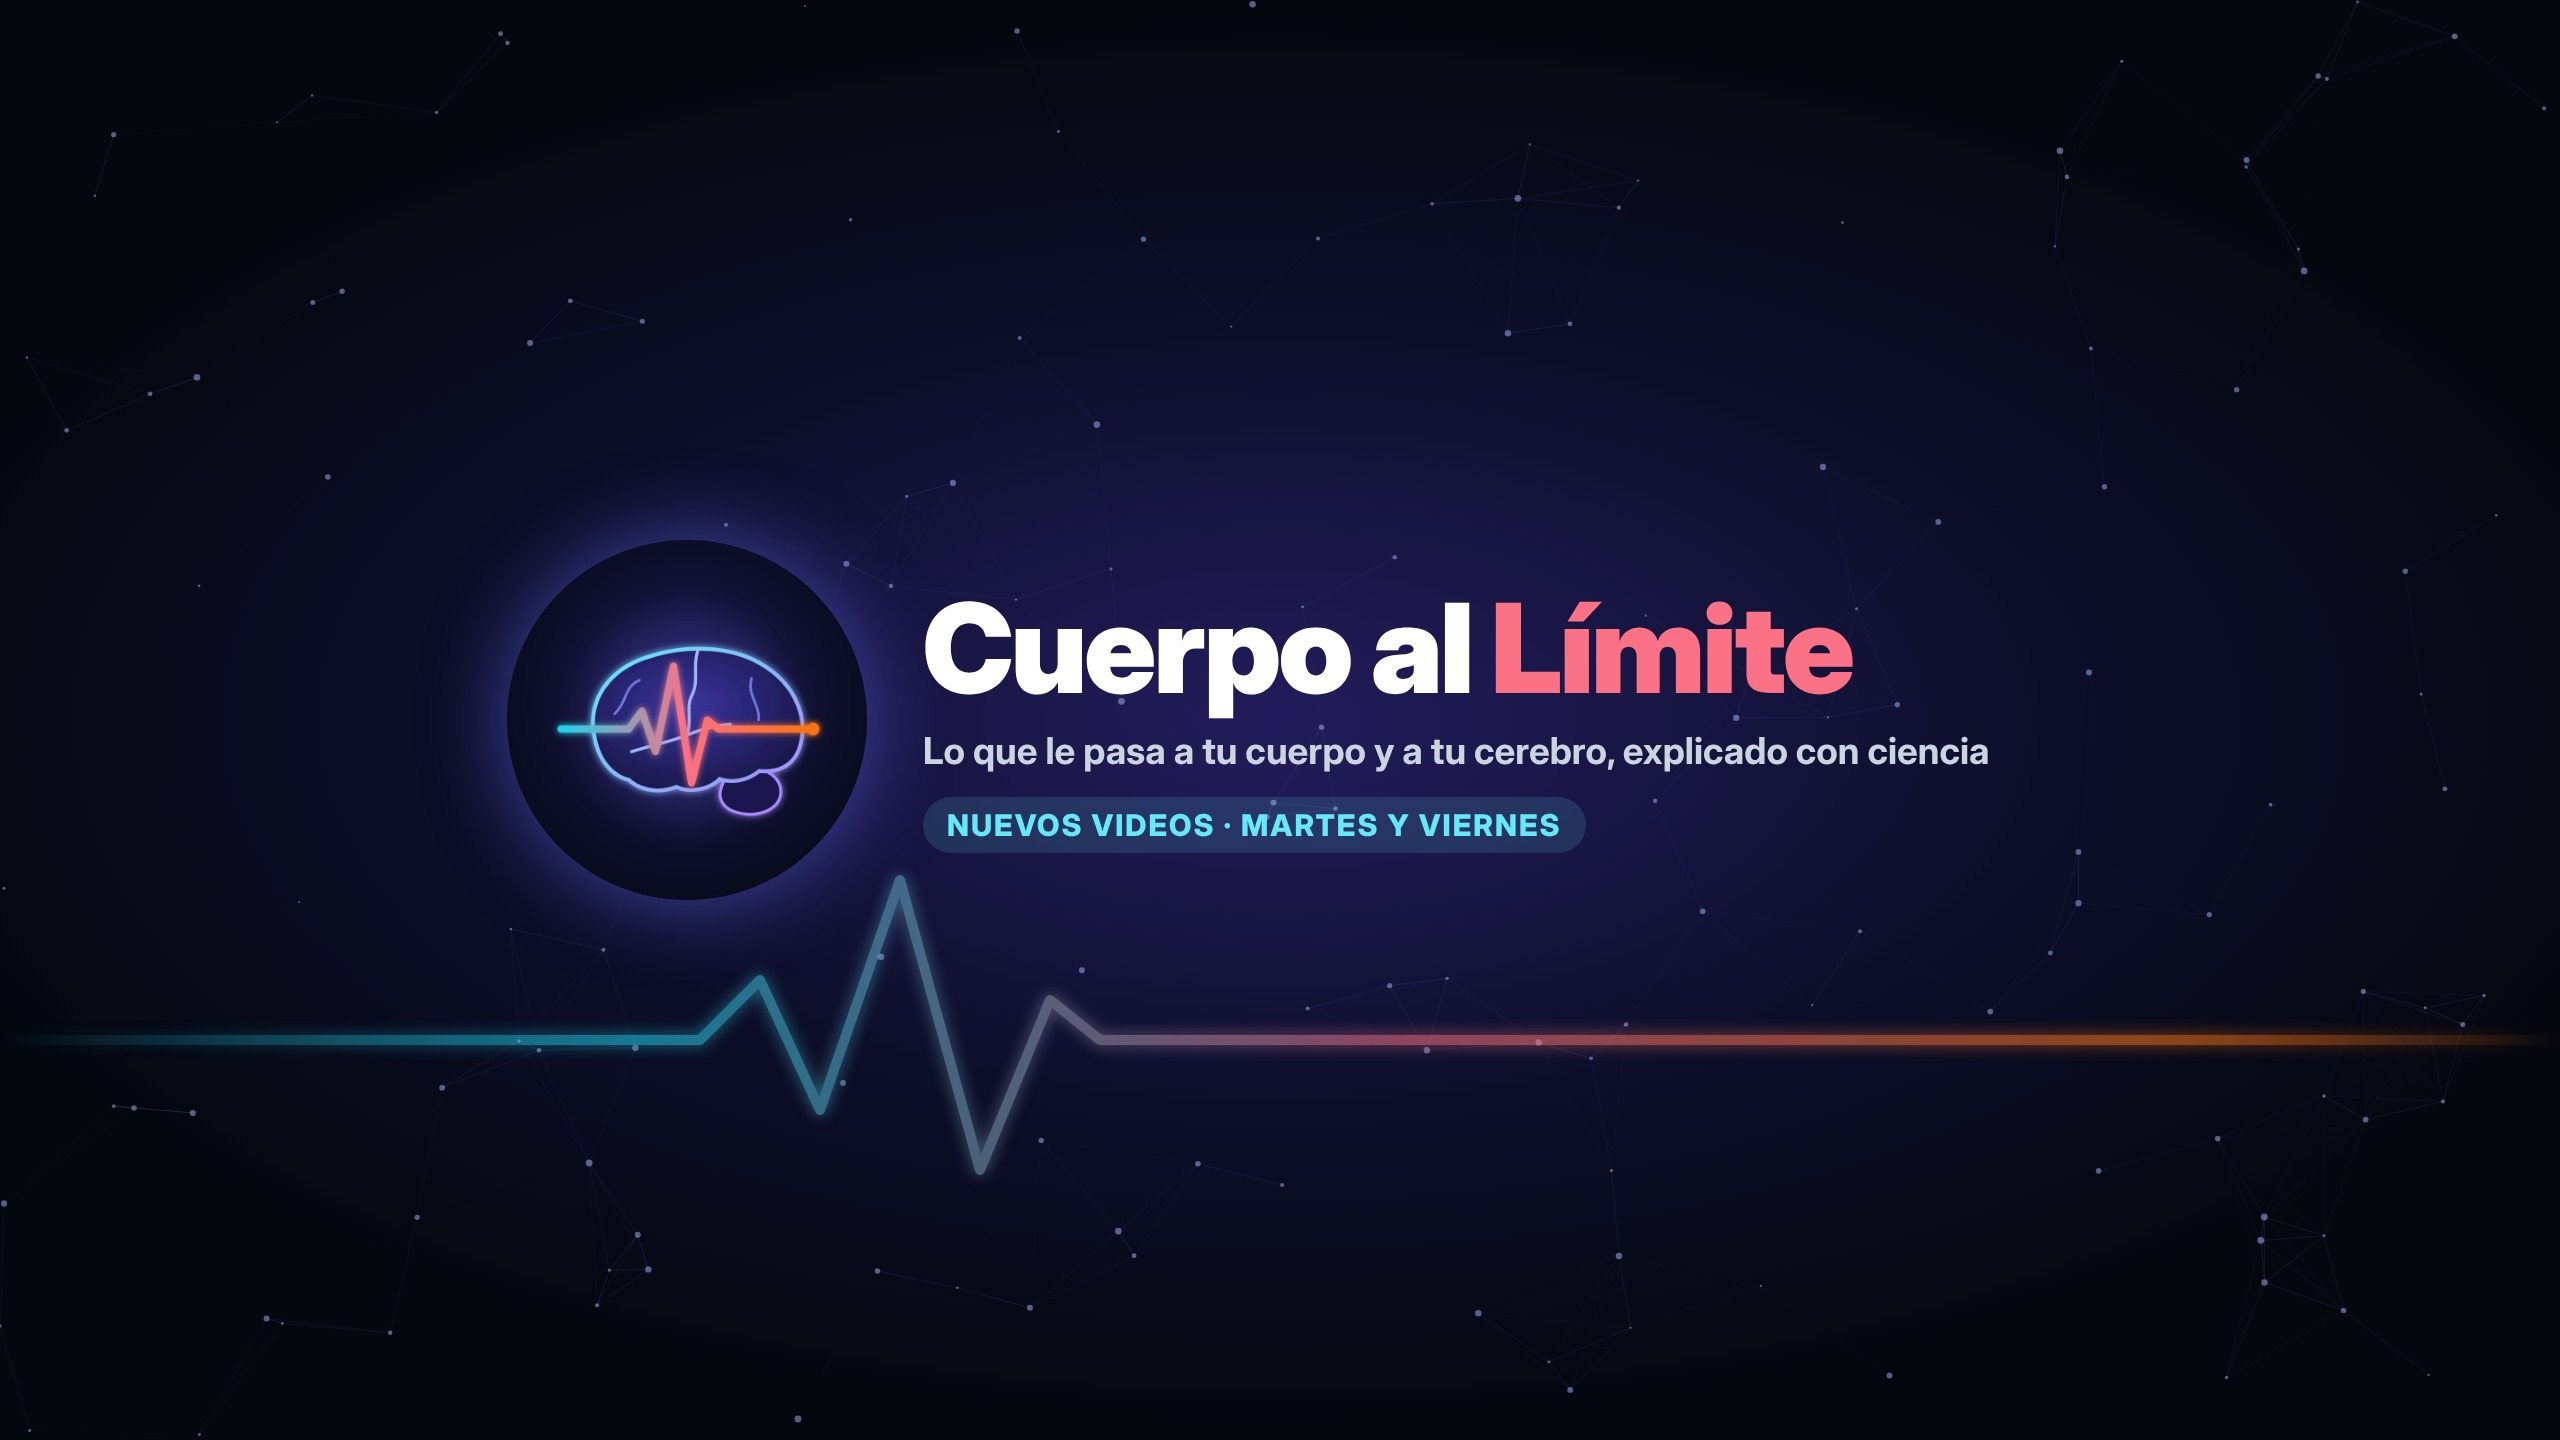
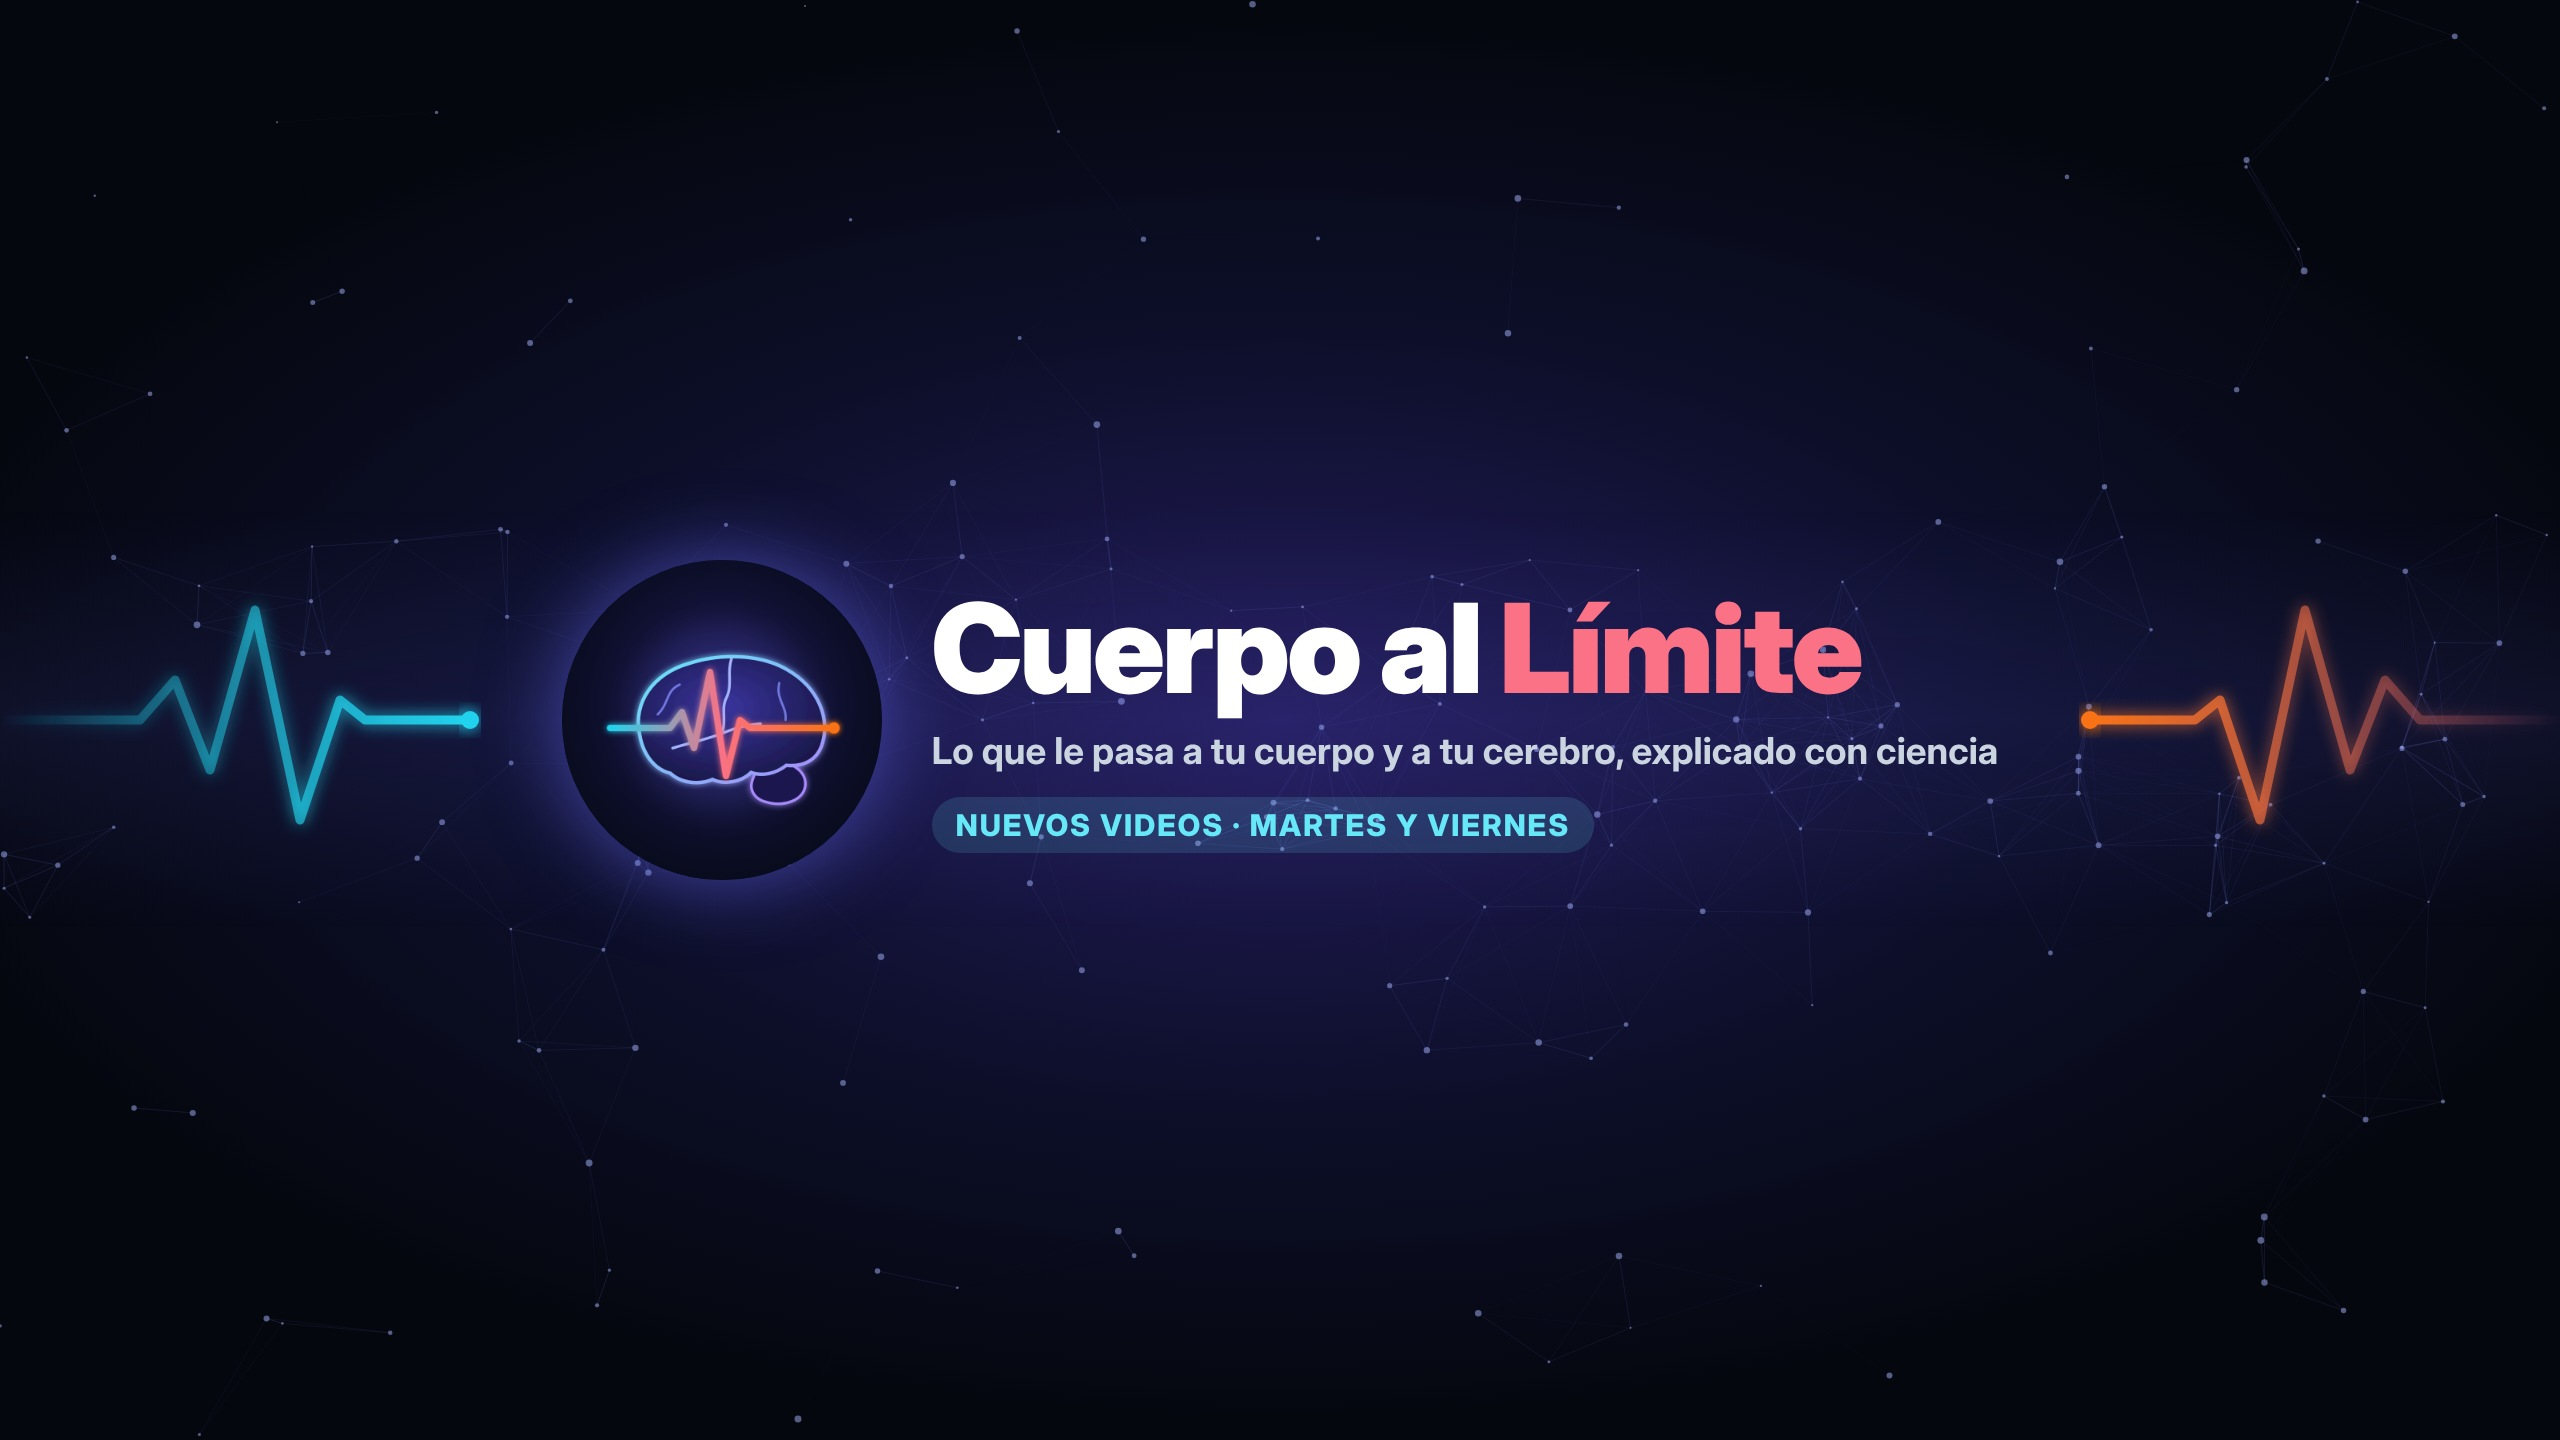
Bàner adaptat a TV, ordinador, tauleta i mòbil

Changed region(s): [[0.0, 0.375, 0.9688, 0.8125], [0.8125, 0.4062, 1.0, 0.5938]]

diff --git a/marca/banner.html b/marca/banner.html
@@ -1,23 +1,23 @@
 <!DOCTYPE html><html><head><meta charset="utf-8"><style>
 html,body{margin:0;width:2560px;height:1440px;overflow:hidden;background:radial-gradient(1400px 700px at 50% 50%,#231c5c 0%,#0d0f2a 55%,#05070f 100%);font-family:'Inter Display',sans-serif}
-#safe{position:absolute;left:507px;top:508px;width:1546px;height:423px;display:flex;align-items:center;gap:56px}
+#safe{position:absolute;left:507px;top:508px;width:1546px;height:423px;display:flex;align-items:center;justify-content:center;gap:50px;box-sizing:border-box;padding:0 40px}
 .t{color:#fff;font-weight:900;font-size:124px;letter-spacing:-3px;line-height:1}
 .t span{color:#FB7185}
 .s{color:#CBD5E1;font-weight:700;font-size:37px;margin-top:18px;white-space:nowrap}
 .p{display:inline-block;margin-top:24px;padding:10px 24px;border-radius:999px;background:rgba(103,232,249,.14);color:#67E8F9;font-weight:800;font-size:30px;letter-spacing:2px}
 </style></head><body>
 <canvas id="cv" width="2560" height="1440" style="position:absolute;inset:0"></canvas>
-<svg width="2560" height="1440" style="position:absolute;inset:0"><defs><linearGradient id="e" x1="0" x2="1"><stop offset="0" stop-color="#22D3EE" stop-opacity="0"/><stop offset=".25" stop-color="#22D3EE"/><stop offset=".55" stop-color="#FB7185"/><stop offset=".85" stop-color="#F97316"/><stop offset="1" stop-color="#F97316" stop-opacity="0"/></linearGradient><filter id="g" x="-10%" y="-50%" width="120%" height="200%"><feGaussianBlur stdDeviation="8" result="b"/><feMerge><feMergeNode in="b"/><feMergeNode in="SourceGraphic"/></feMerge></filter></defs>
-<path d="M0,1040 L700,1040 L760,980 L820,1110 L900,880 L980,1170 L1050,1000 L1100,1040 L2560,1040" fill="none" stroke="url(#e)" stroke-width="10" stroke-linejoin="round" filter="url(#g)" opacity=".55"/></svg>
+<svg width="2560" height="1440" style="position:absolute;inset:0"><defs><linearGradient id="e" x1="0" x2="1"><stop offset="0" stop-color="#22D3EE" stop-opacity="0"/><stop offset=".25" stop-color="#22D3EE"/><stop offset=".55" stop-color="#FB7185"/><stop offset=".85" stop-color="#F97316"/><stop offset="1" stop-color="#F97316" stop-opacity="0"/></linearGradient><linearGradient id="eL" x1="0" x2="1"><stop offset="0" stop-color="#22D3EE" stop-opacity="0"/><stop offset="1" stop-color="#22D3EE"/></linearGradient><linearGradient id="eR" x1="0" x2="1"><stop offset="0" stop-color="#F97316"/><stop offset="1" stop-color="#FB7185" stop-opacity="0"/></linearGradient><linearGradient id="band" x1="0" x2="0" y1="0" y2="1"><stop offset="0" stop-color="#6366F1" stop-opacity="0"/><stop offset=".5" stop-color="#6366F1" stop-opacity=".10"/><stop offset="1" stop-color="#6366F1" stop-opacity="0"/></linearGradient><filter id="g" x="-10%" y="-50%" width="120%" height="200%"><feGaussianBlur stdDeviation="8" result="b"/><feMerge><feMergeNode in="b"/><feMergeNode in="SourceGraphic"/></feMerge></filter></defs>
+<rect x="0" y="508" width="2560" height="423" fill="url(#band)"/><path d="M0,720 L140,720 L175,680 L210,770 L255,610 L300,820 L340,700 L365,720 L470,720" fill="none" stroke="url(#eL)" stroke-width="9" stroke-linejoin="round" filter="url(#g)"/><path d="M2090,720 L2195,720 L2220,700 L2260,820 L2305,610 L2350,770 L2385,680 L2420,720 L2560,720" fill="none" stroke="url(#eR)" stroke-width="9" stroke-linejoin="round" filter="url(#g)"/><circle cx="470" cy="720" r="9" fill="#22D3EE" filter="url(#g)"/><circle cx="2090" cy="720" r="9" fill="#F97316" filter="url(#g)"/></svg>
 <div id="safe">
- <img src="cuerpo_al_limite_perfil.png" style="width:360px;height:360px;border-radius:50%;box-shadow:0 0 80px #6366F199;flex:none">
+ <img src="cuerpo_al_limite_perfil.png" style="width:320px;height:320px;border-radius:50%;box-shadow:0 0 80px #6366F199;flex:none">
  <div><div class="t">Cuerpo al <span>Límite</span></div>
  <div class="s">Lo que le pasa a tu cuerpo y a tu cerebro, explicado con ciencia</div>
  <div class="p">NUEVOS VIDEOS · MARTES Y VIERNES</div></div>
 </div>
 <script>
 const c=document.getElementById('cv').getContext('2d');let s=7;const r=()=>(s=s*16807%2147483647)/2147483647;
-const P=[...Array(160)].map(()=>[r()*2560,r()*1440,1+r()*2.5]);
+const P=[...Array(110)].map(()=>[r()*2560,r()*1440,1+r()*2.5]).concat([...Array(90)].map(()=>[r()*2560,520+r()*400,1+r()*2.5]));
 for(let i=0;i<P.length;i++)for(let j=i+1;j<P.length;j++){const d=Math.hypot(P[i][0]-P[j][0],P[i][1]-P[j][1]);if(d<190){c.strokeStyle=`rgba(129,140,248,${(1-d/190)*.18})`;c.beginPath();c.moveTo(P[i][0],P[i][1]);c.lineTo(P[j][0],P[j][1]);c.stroke();}}
 P.forEach(p=>{c.fillStyle='rgba(165,180,252,.5)';c.beginPath();c.arc(p[0],p[1],p[2],0,7);c.fill();});
 </script></body></html>
